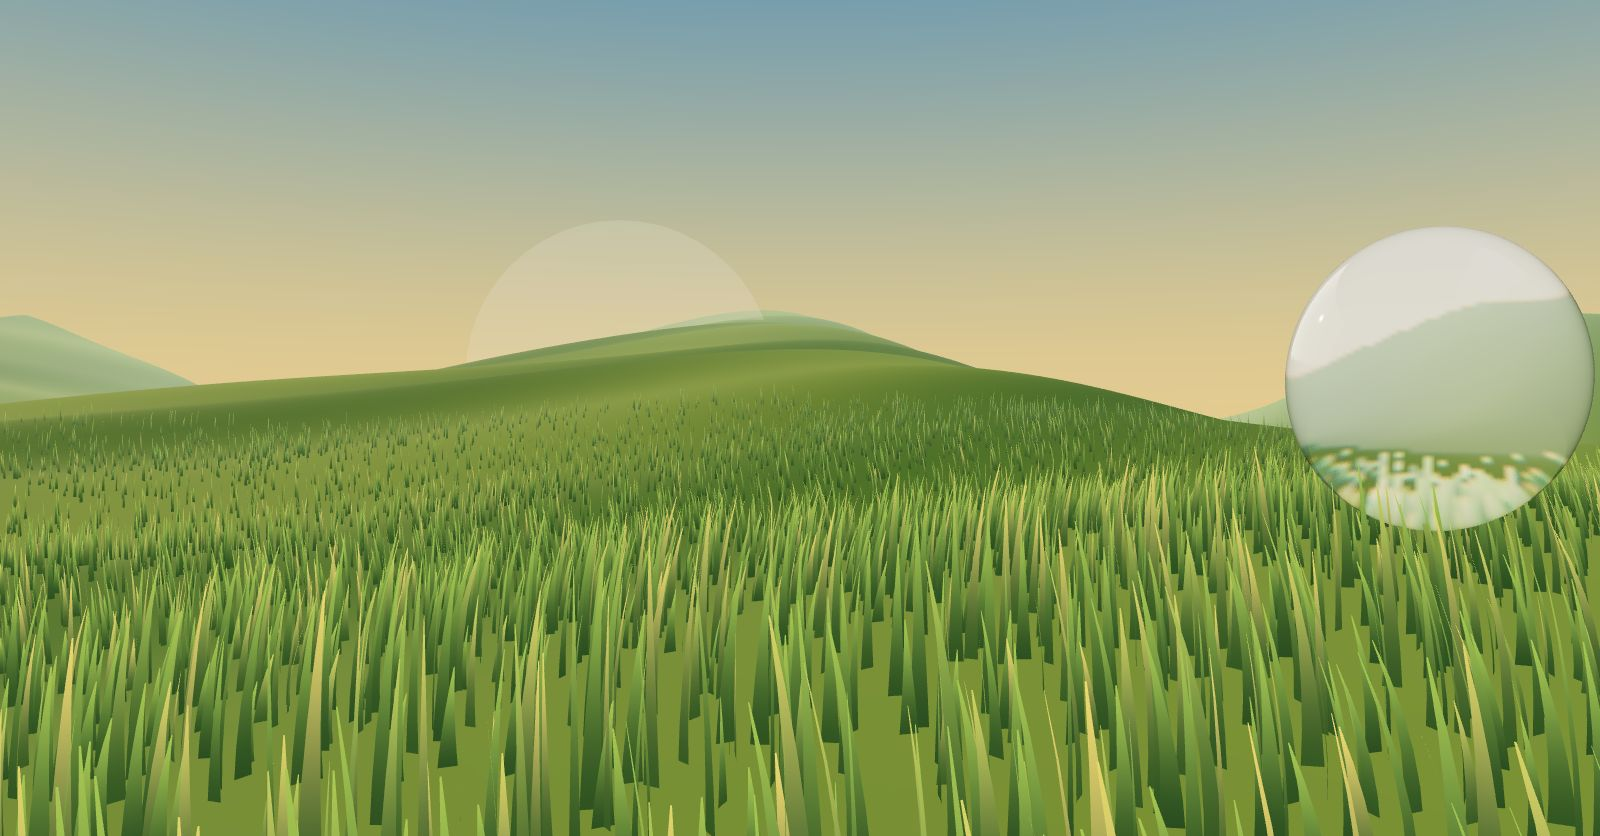
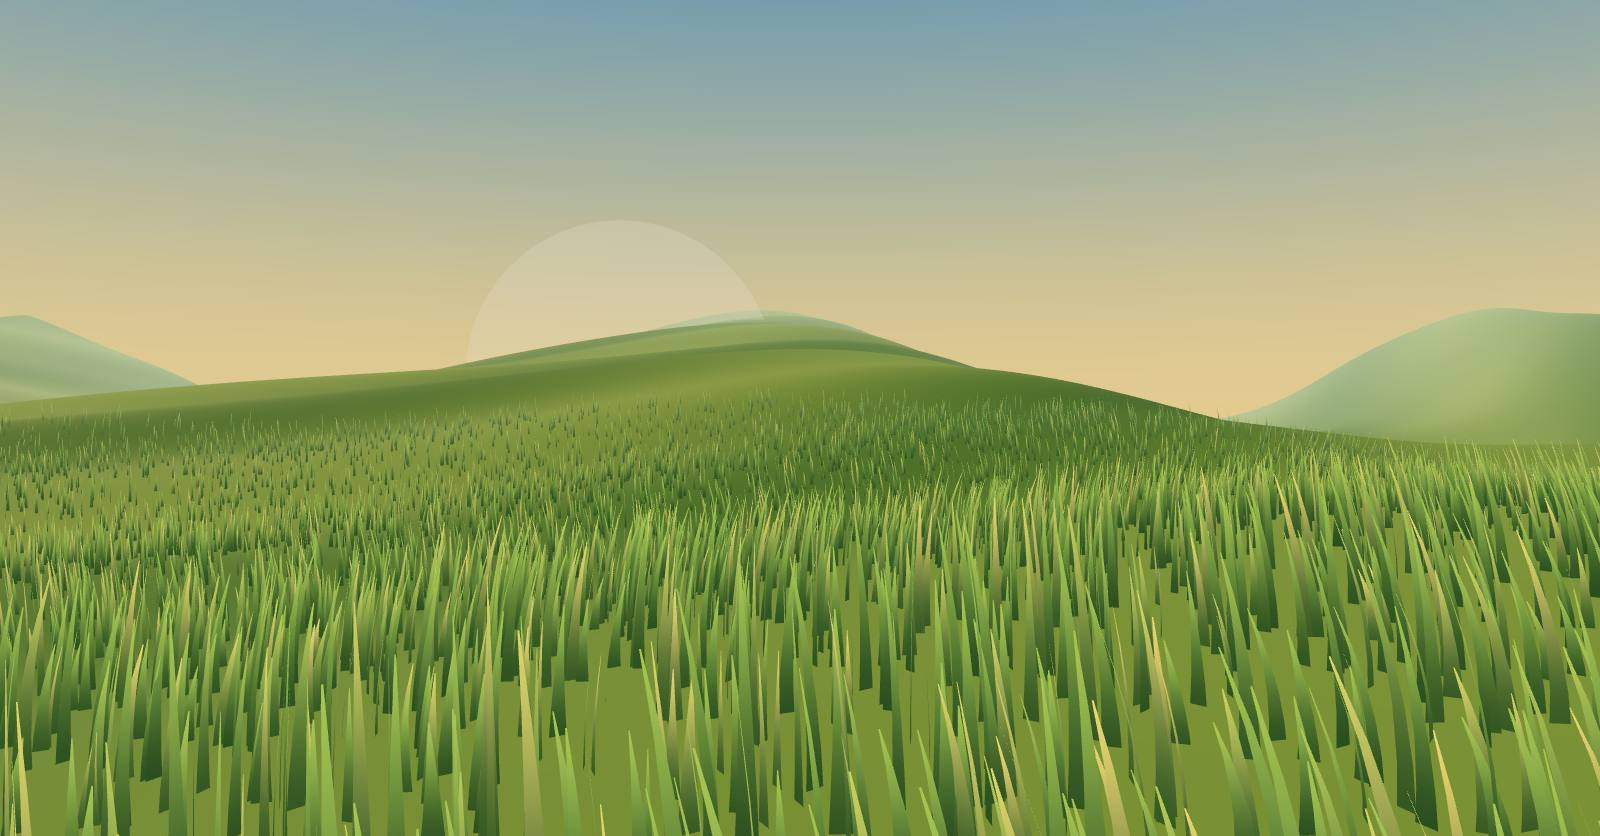
Remove dewdrop from hero image; drop backdrop blur everywhere; lighter responsive hero images
Claude-Session: https://claude.ai/code/session_01HTtiA1mpZXiPpcUvKXrhP9

diff --git a/src/styles/global.css b/src/styles/global.css
@@ -382,3 +382,14 @@ main { padding-top: clamp(24px, 3.5vw, 44px); }
 .grating-stars::before { content: '★★★★★'; position: absolute; inset: 0; width: var(--pct); overflow: hidden; color: #c98a00; }
 .grating-src { font-size: 0.85em; }
 .grating-lg { font-size: 1rem; margin-top: 0.6rem; }
+
+/* Speed (2026-10-28): no live backdrop blur anywhere. Blur is redrawn on every
+   scroll frame and is very slow in remote/isolated browsers. Glass is now a
+   translucent fill with highlights, which looks close and costs nothing. */
+.glass, .site-header.glass { -webkit-backdrop-filter: none !important; backdrop-filter: none !important; }
+.glass { background: linear-gradient(140deg, rgba(255,255,255,0.86), rgba(255,255,255,0.70)); box-shadow: inset 0 1px 0 #fff, inset 0 -1px 0 rgba(255,255,255,0.5), 0 8px 24px rgba(24,48,30,0.12); }
+.glass-strong { background: linear-gradient(140deg, rgba(250,252,247,0.90), rgba(244,248,238,0.80)); }
+.glass::before { display: none; }
+.site-header.glass, .has-hero .site-header.glass { background: rgba(246,248,242,0.96); box-shadow: 0 1px 0 rgba(31,64,41,0.10); }
+.hero-coin { background: radial-gradient(circle at 35% 30%, #fffdf6, #f6ecd2 70%); border: 2px solid rgba(168,122,20,0.55); box-shadow: 0 6px 18px rgba(24,48,30,0.15); }
+.feed-key, .reach, .glance a, .species-row a, .filters { box-shadow: none; }
